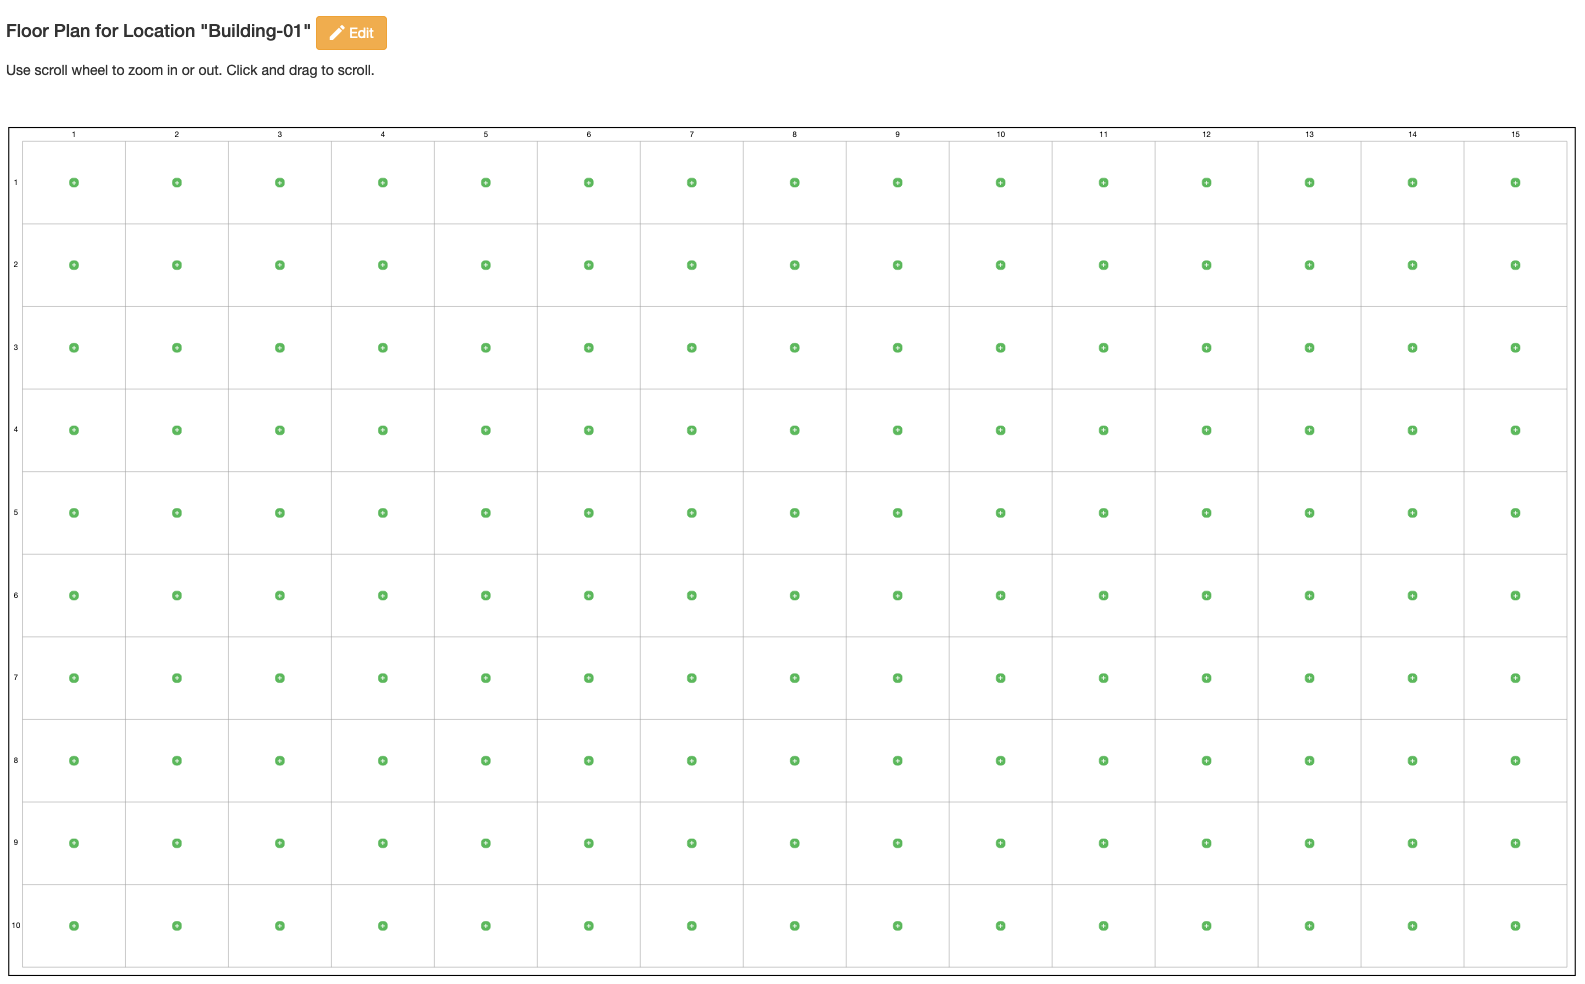
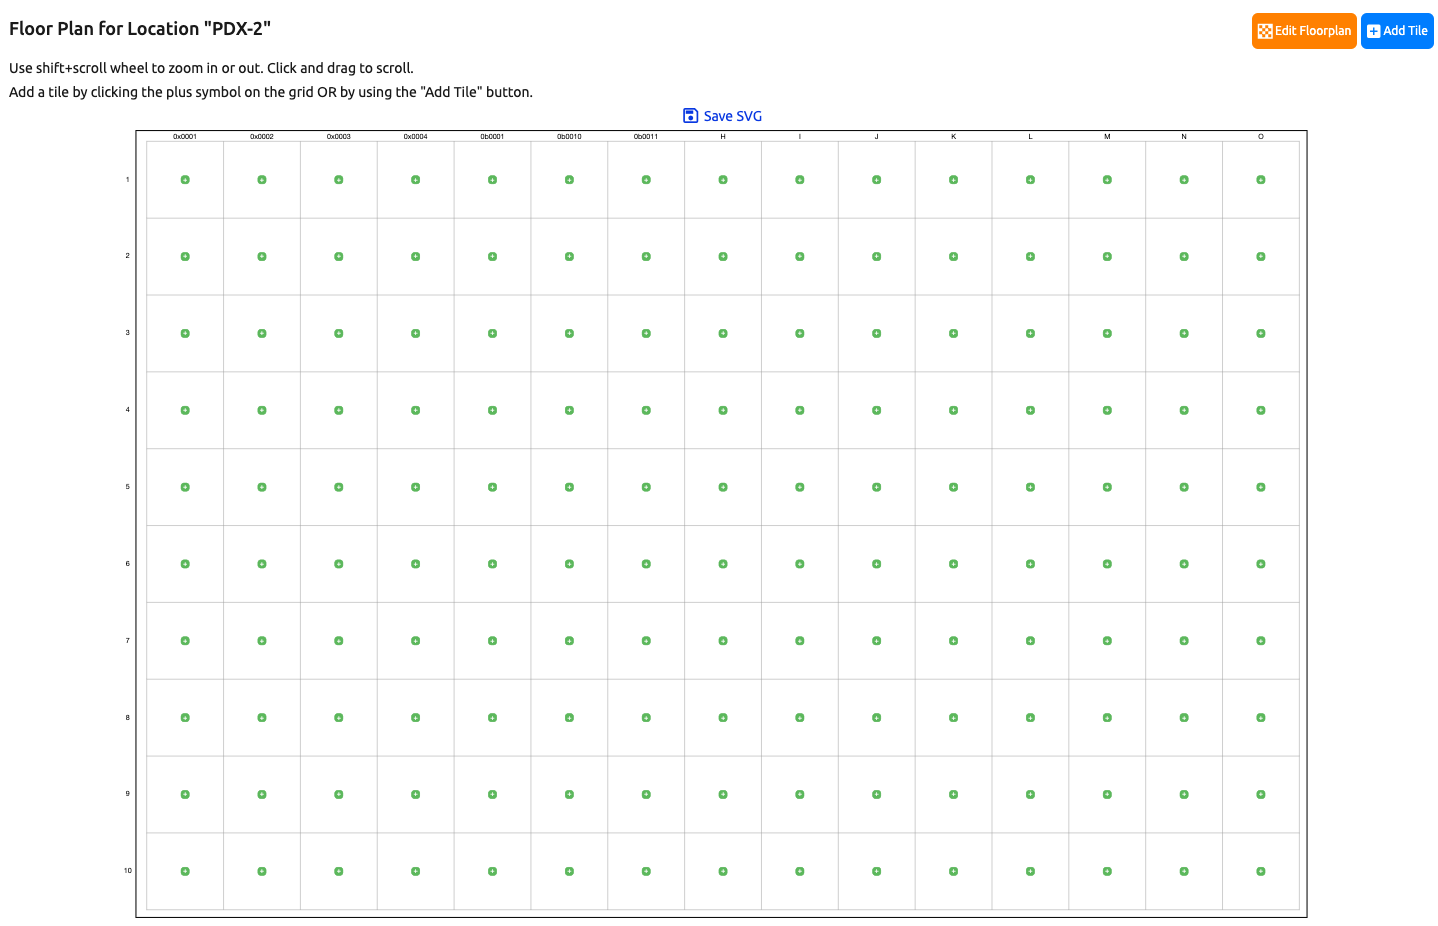
Adds break-out 'Add tile' button

diff --git a/nautobot_floor_plan/templates/nautobot_floor_plan/inc/floorplan_svg.html b/nautobot_floor_plan/templates/nautobot_floor_plan/inc/floorplan_svg.html
@@ -1,8 +1,21 @@
 {% load buttons %}
 
 {% if floor_plan %}
-    <h4>{{ floor_plan }} {% edit_button floor_plan %}</h4>
-    Use shift+scroll wheel to zoom in or out. Click and drag to scroll.
+    <div class="pull-right noprint">
+        <a href="{% url 'plugins:nautobot_floor_plan:floorplan_edit' floor_plan.pk %}" class="btn btn-warning btn-sm" id="edit-button">
+            <span class="mdi mdi-checkerboard" aria-hidden="true"></span> Edit Floorplan
+        </a>
+        <a href="{% url 'plugins:nautobot_floor_plan:floorplantile_add' %}?floor_plan={{ floor_plan.pk }}" class="btn btn-primary btn-sm " id="add-floor-plan">
+            <span class="mdi mdi-plus-box" aria-hidden="true"></span> Add Tile
+        </a>
+    </div>
+    <h4>{{ floor_plan }}</h4>
+    <div>
+        Use shift+scroll wheel to zoom in or out.
+        Click and drag to scroll.<br>
+        Add a tile by clicking the plus symbol on the grid OR by using the "Add Tile" button.
+    </div>
+
     <div class="text-center text-small">
         <a href="{% url 'plugins-api:nautobot_floor_plan-api:floorplan-svg' pk=floor_plan.pk %}" class="rack_elevation_save_svg_link" download="floor_plan_{{ floor_plan.location.name }}.svg">
             <i class="mdi mdi-content-save-outline"></i> Save SVG

diff --git a/docs/user/app_getting_started.md b/docs/user/app_getting_started.md
@@ -12,7 +12,7 @@ To install the app, please follow the instructions detailed in the [Installation
 
 The first step is to define which Status(es) can be applied to individual tiles in a floor plan. Navigate to **"Organization > Statuses"** in the Nautobot UI and create or update the desired Status records to include `nautobot_floor_plan | floor plan tile` as one of the Status's *Content Types*.
 
-The app installs with the following statuses by default:  
+The app installs with the following statuses by default:
 `"Active", "Reserved", "Decommissioning", "Unavailable", "Planned"`
 
 ![Status definition](../images/status-definition.png)
@@ -29,38 +29,38 @@ Clicking this button will open a standard Nautobot create/edit form. This form a
 
 #### Floor Plan Parameters
 
-- **X Size** and **Y Size**:  
-  Define the number of tiles in the floor plan.  
+- **X Size** and **Y Size**:
+  Define the number of tiles in the floor plan.
 
-- **Tile Width** and **Tile Depth**:  
-  Define the relative proportions of each tile when rendered in the Nautobot UI.  
-    - You can use the default settings for a square grid.  
+- **Tile Width** and **Tile Depth**:
+  Define the relative proportions of each tile when rendered in the Nautobot UI.
+    - You can use the default settings for a square grid.
     - Alternatively, customize these parameters for a rectangular grid.
 
-- **Movable Tiles**:  
+- **Movable Tiles**:
   Determine if you want tiles to be movable once placed.
-    - This feature is a optional setting to assist with Custom Label creation  
+    - This feature is a optional setting to assist with Custom Label creation
     - Default: `"True"`
 
 ![Add Floor Plan form](../images/add-floor-plan-form.png)
 
 #### Axis Labeling and Configuration
 
-Default settings allow you to configure labels, seeds, and steps for each axis of the floor plan.  
+Default settings allow you to configure labels, seeds, and steps for each axis of the floor plan.
 
-- **X Axis Settings** and **Y Axis Settings**:  
-  These parameters are divided into panels with tabs for *default* or *custom* labels.  
+- **X Axis Settings** and **Y Axis Settings**:
+  These parameters are divided into panels with tabs for *default* or *custom* labels.
 
-- **X Axis Labels** and **Y Axis Labels**:  
-  Represent grid labels as either `"Numbers"` or `"Letters"`.  
-  - Default: `"Numbers"`  
+- **X Axis Labels** and **Y Axis Labels**:
+  Represent grid labels as either `"Numbers"` or `"Letters"`.
+  - Default: `"Numbers"`
 
-- **X Axis Seed** and **Y Axis Seed**:  
-  Define the starting point for grid labels.  
-  - Default: `"1"`  
+- **X Axis Seed** and **Y Axis Seed**:
+  Define the starting point for grid labels.
+  - Default: `"1"`
 
-- **X Axis Step** and **Y Axis Step**:  
-  Set a positive or negative integer step value to skip numbers or letters in grid labeling.  
+- **X Axis Step** and **Y Axis Step**:
+  Set a positive or negative integer step value to skip numbers or letters in grid labeling.
   - Default: `"1"`
 
 ![Add Floor Plan form part 2](../images/add-tile-axis-default.png)
@@ -73,17 +73,17 @@ The **Custom Labels** tab provides options to configure a custom label range usi
 
 ## Parameters
 
-- **`start`**  
+- **`start`**
   Similar to the default seed parameters, `start` specifies the starting point for the custom label range.
 
-- **`end`**  
+- **`end`**
   Specifies the last label in the custom range.
 
-- **`step`**  
-  This works like the default *X Axis Step* and *Y Axis Step* parameters, allowing you to set a positive or negative integer to control label spacing within the grid.  
+- **`step`**
+  This works like the default *X Axis Step* and *Y Axis Step* parameters, allowing you to set a positive or negative integer to control label spacing within the grid.
   The default value is `1`.
 
-- **`increment_letter`** *(optional)*  
+- **`increment_letter`** *(optional)*
   Applicable only for *numalpha* and *alphanumeric* label types, this parameter controls whether letter patterns increment.
   - *Default*: `true`
   - When set to `true`:
@@ -100,15 +100,15 @@ The **Custom Labels** tab provides options to configure a custom label range usi
 
   Both *numalpha* and *alphanumeric* label types support leading or non-leading zero formats.
 
-- **`label_type`**  
-  Specifies the type of label. Supported types include:  
-  - `numalpha`  
-  - `alphanumeric`  
-  - `roman`  
-  - `greek`  
-  - `hex`  
-  - `binary`  
-  - `letters`  
+- **`label_type`**
+  Specifies the type of label. Supported types include:
+  - `numalpha`
+  - `alphanumeric`
+  - `roman`
+  - `greek`
+  - `hex`
+  - `binary`
+  - `letters`
   - `numbers`
 
 !!! note
@@ -149,25 +149,29 @@ After clicking **Create**, you will be presented with a newly rendered floor pla
 !!! note
     This view will be accessible again in the future by navigating to the Location's **detail** view and clicking the **Floor Plan** tab.
 
-### Adding Tiles to the Floor Plan
+### Tile management on the Floor Plan
 
-To add information to a tile, click the **"+"** icon in the corner of any rectangle in the grid.
-  
-- If you've defined a large floor plan or have a small display, you can use your mouse wheel to zoom in for a better view.  
-- While zoomed in, click and drag to pan around the grid.  
-
-Clicking a tile's **"+"** icon will open a simple create/edit form for describing the tile.
+To edit information on a tile, either click the:
+* Yellow pencil button in the upper left to edit it.
+* Box within the tile to view the existing rack assigned.
+* Green **"+"** icon in the center of any rectangle in the grid.
+* The blue **"+ Add Tile"** button in the upper right of the floor plan.
 
 ![Add Tile form part 1](../images/add-tile-form.png)
+
+
+### Floorplan Navigation
+
+If you've defined a large floor plan or have a small display, you can use your mouse wheel to zoom in for a better view. While zoomed in, click and drag to pan around the grid.
 
 ### Tile Options
 
 For each tile, you can:
 
-- **Assign a Status**: Choose from the predefined Statuses (e.g., "Active", "Reserved").  
-- **Assign a Rack or RackGroup**: Specify the rack or rack group associated with the tile.  
-- **Specify Rack Orientation**: Define the orientation of the rack relative to the floor plan.  
-- **Adjust Tile Size**: Expand a tile to cover multiple spaces.  
+- **Assign a Status**: Choose from the predefined Statuses (e.g., "Active", "Reserved").
+- **Assign a Rack or RackGroup**: Specify the rack or rack group associated with the tile.
+- **Specify Rack Orientation**: Define the orientation of the rack relative to the floor plan.
+- **Adjust Tile Size**: Expand a tile to cover multiple spaces.
   - Useful for documenting larger-than-usual racks or marking sections of the floor plan as "Reserved" or "Unavailable."
 
 !!! note
@@ -177,15 +181,15 @@ For each tile, you can:
 
 When tiles cover multiple spaces:
 
-- You can place racks within these tiles.  
-- For RackGroup tiles, racks must be added to the appropriate RackGroup.  
+- You can place racks within these tiles.
+- For RackGroup tiles, racks must be added to the appropriate RackGroup.
 - Tile size can be increased or decreased, as long as they do not overlap with other tiles.
 
 ### Additional Tile Information
 
 When a rack is assigned to a tile, the display of the tile will also include:
 
-- **Tenant Information**: The tenant and tenant group associated with the rack.  
+- **Tenant Information**: The tenant and tenant group associated with the rack.
 
 ![Populated floor plan](../images/floor-plan-populated.png)
 
@@ -193,5 +197,5 @@ When a rack is assigned to a tile, the display of the tile will also include:
 
 Once tiles have been added, the floor plan can no longer be resized.
 
-- This restriction prevents resizing that could place tiles outside the new dimensions.  
+- This restriction prevents resizing that could place tiles outside the new dimensions.
 - To change the floor plan's dimensions, you must: Remove all tiles, or Delete and recreate the floor plan.
